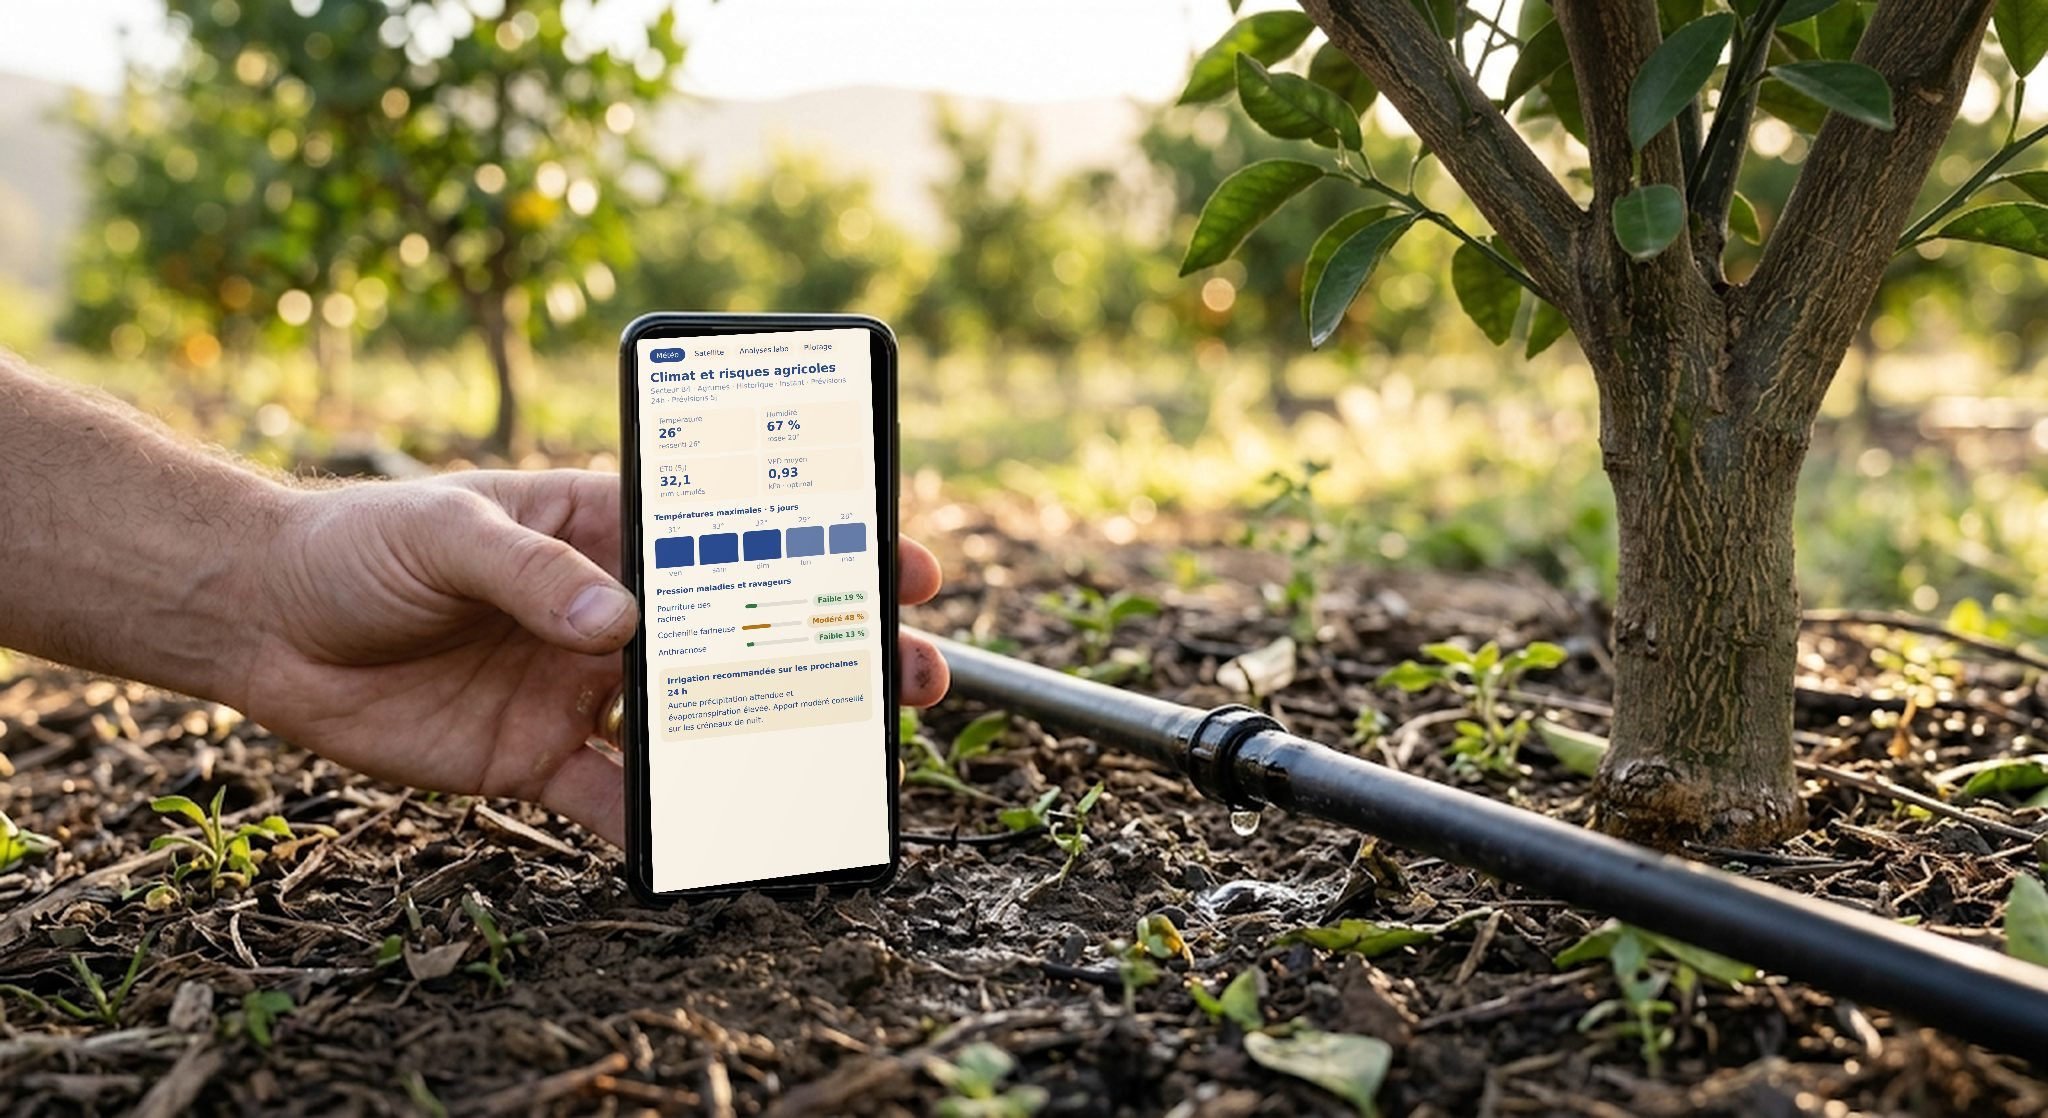
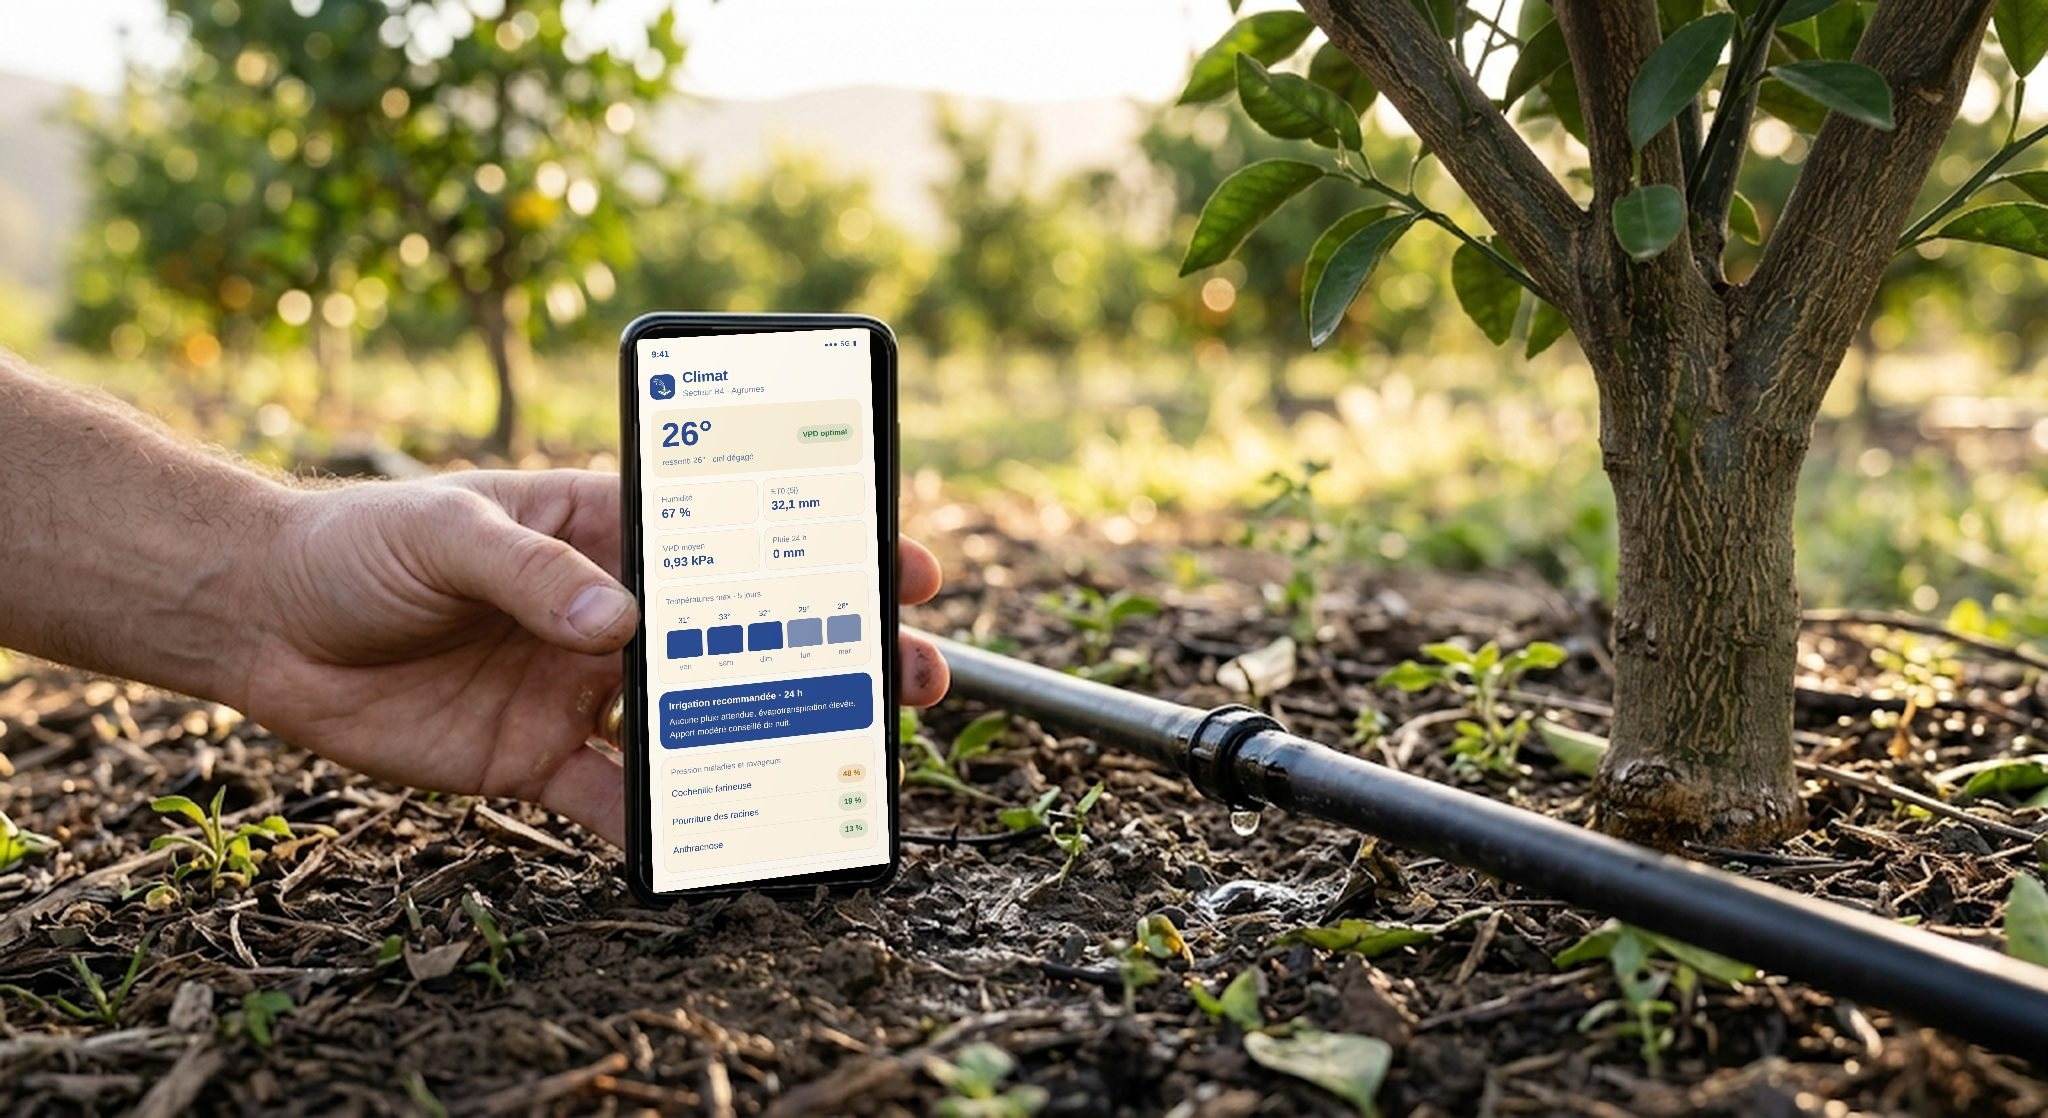
Écran mobile dédié pour la photo du téléphone (Climat)
Claude-Session: https://claude.ai/code/session_01RBusirAN6PEUMJTEkbNuuq

Changed region(s): [[0.3125, 0.3041, 0.4375, 0.7603], [0.3438, 0.6995, 0.375, 0.7299]]

diff --git a/src/mockups/compose.py b/src/mockups/compose.py
@@ -13,12 +13,47 @@ from screens import CLIMAT, SATELLITE, LABO, PILOTAGE
 JOBS = {  # name: (screen, css width, css height, browser bar, phone layout, light tone multiplier, RGB cast)
     "pilotage": (PILOTAGE, 780, 490, True, False, .975, (255, 251, 245)),
     "satellite": (SATELLITE, 700, 515, False, False, .975, (255, 250, 242)),
-    "climat": (CLIMAT, 360, 830, False, True, .96, (255, 248, 236)),
+    "climat": ("PHONE", 380, 870, False, True, .97, (255, 250, 240)),
     "labo": (LABO, 780, 500, True, False, .985, (248, 250, 255)),
 }
 CSS = os.path.join(ROOT, 'site', 'site.css')
 
+PHONE_CLIMAT = """<div class="ph">
+<div class="ph-status"><b>9:41</b><span>●●● 5G ▮</span></div>
+<div class="ph-head"><span class="ph-logo"></span><div><b>Climat</b><small>Secteur B4 · Agrumes</small></div></div>
+<div class="ph-now"><div><span class="ph-temp">26°</span><small>ressenti 26° · ciel dégagé</small></div><span class="chip ok">VPD optimal</span></div>
+<div class="ph-kpis"><div><small>Humidité</small><b>67 %</b></div><div><small>ET0 (5j)</small><b>32,1 mm</b></div><div><small>VPD moyen</small><b>0,93 kPa</b></div><div><small>Pluie 24 h</small><b>0 mm</b></div></div>
+<div class="ph-card"><small>Températures max · 5 jours</small>
+<div class="ph-bars"><div><span>31°</span><i style="height:72%"></i><em>ven</em></div><div><span>33°</span><i style="height:86%"></i><em>sam</em></div><div><span>32°</span><i style="height:79%"></i><em>dim</em></div><div><span>29°</span><i style="height:60%;opacity:.6"></i><em>lun</em></div><div><span>28°</span><i style="height:54%;opacity:.6"></i><em>mar</em></div></div></div>
+<div class="ph-alert"><b>Irrigation recommandée · 24 h</b>Aucune pluie attendue, évapotranspiration élevée. Apport modéré conseillé de nuit.</div>
+<div class="ph-card"><small>Pression maladies et ravageurs</small>
+<div class="ph-risk"><span>Cochenille farineuse</span><b class="chip warn">48 %</b></div>
+<div class="ph-risk"><span>Pourriture des racines</span><b class="chip ok">19 %</b></div>
+<div class="ph-risk"><span>Anthracnose</span><b class="chip ok">13 %</b></div></div>
+<nav class="ph-nav"><span class="on">Météo</span><span>Satellite</span><span>Labo</span><span>Pilotage</span></nav>
+</div>"""
+PHONE_CSS = """.ph{height:100%;display:flex;flex-direction:column;gap:12px;padding:0 18px 0;background:#fff;color:#274B9C;font-family:'Noto Sans',sans-serif}
+.ph-status{display:flex;justify-content:space-between;font-size:14px;padding:14px 4px 0}.ph-status span{font-size:11px;letter-spacing:1px}
+.ph-head{display:flex;align-items:center;gap:12px;margin-top:4px}.ph-head b{display:block;font-family:'Rethink Sans',sans-serif;font-size:24px;line-height:1.1}.ph-head small{font-size:13.5px;opacity:.65}
+.ph-logo{width:40px;height:40px;border-radius:12px;background:#274B9C url(file://LOGO) center/70% no-repeat}
+.ph-now{display:flex;justify-content:space-between;align-items:center;background:#F9F4E6;border-radius:18px;padding:14px 16px}
+.ph-temp{font-family:'Rethink Sans',sans-serif;font-weight:700;font-size:54px;line-height:1}.ph-now small{display:block;font-size:13px;opacity:.7;margin-top:4px}
+.ph-kpis{display:grid;grid-template-columns:1fr 1fr;gap:8px}.ph-kpis div{background:#FFFBF3;border:1px solid rgba(39,75,156,.1);border-radius:14px;padding:10px 12px}
+.ph-kpis small,.ph-card>small{display:block;font-size:12.5px;opacity:.65}.ph-kpis b{font-family:'Rethink Sans',sans-serif;font-size:20px}
+.ph-card{background:#FFFBF3;border:1px solid rgba(39,75,156,.1);border-radius:16px;padding:12px 14px}
+.ph-bars{display:grid;grid-template-columns:repeat(5,1fr);gap:8px;height:96px;align-items:end;margin-top:8px}.ph-bars div{display:flex;flex-direction:column;align-items:center;justify-content:flex-end;height:100%;gap:3px;font-size:12px}
+.ph-bars i{display:block;width:100%;background:#274B9C;border-radius:7px 7px 3px 3px}.ph-bars em{font-style:normal;opacity:.6}
+.ph-alert{background:#274B9C;color:#FFFBF3;border-radius:16px;padding:13px 15px;font-size:13.5px;line-height:1.45}.ph-alert b{display:block;font-size:15px;margin-bottom:3px}
+.ph-risk{display:flex;justify-content:space-between;align-items:center;font-size:14px;padding:7px 0;border-top:1px solid rgba(39,75,156,.08)}.ph-risk:first-of-type{border-top:0}
+.ph .chip{font-size:12.5px;padding:3px 10px}
+.ph-nav{margin-top:auto;display:flex;justify-content:space-around;border-top:1px solid rgba(39,75,156,.12);padding:12px 0 22px;font-size:13px;font-weight:600}.ph-nav span{opacity:.5}.ph-nav .on{opacity:1}"""
+
+
 def page(inner, w, h, chrome, mobile):
+    if inner == "PHONE":
+        css = PHONE_CSS.replace("LOGO", os.path.join(ROOT, 'img', 'logo-symbole-blanc.png'))
+        return (f'<!doctype html><html><head><meta charset="utf-8"><link rel="stylesheet" href="file://{CSS}"><style>'
+                f'html,body{{margin:0;width:{w}px;height:{h}px;overflow:hidden;background:#fff}}{css}</style></head><body>{PHONE_CLIMAT}</body></html>')
     if not chrome:
         inner = re.sub(r'<div class="chrome">.*?</span></div>', '', inner, count=1, flags=re.S)
     extra = '.kpis.k4,.kpis.k3{grid-template-columns:1fr 1fr!important}.app h4{font-size:19px}.screen{font-size:13.5px}.tabs{flex-wrap:nowrap;overflow:hidden}' if mobile else ''
